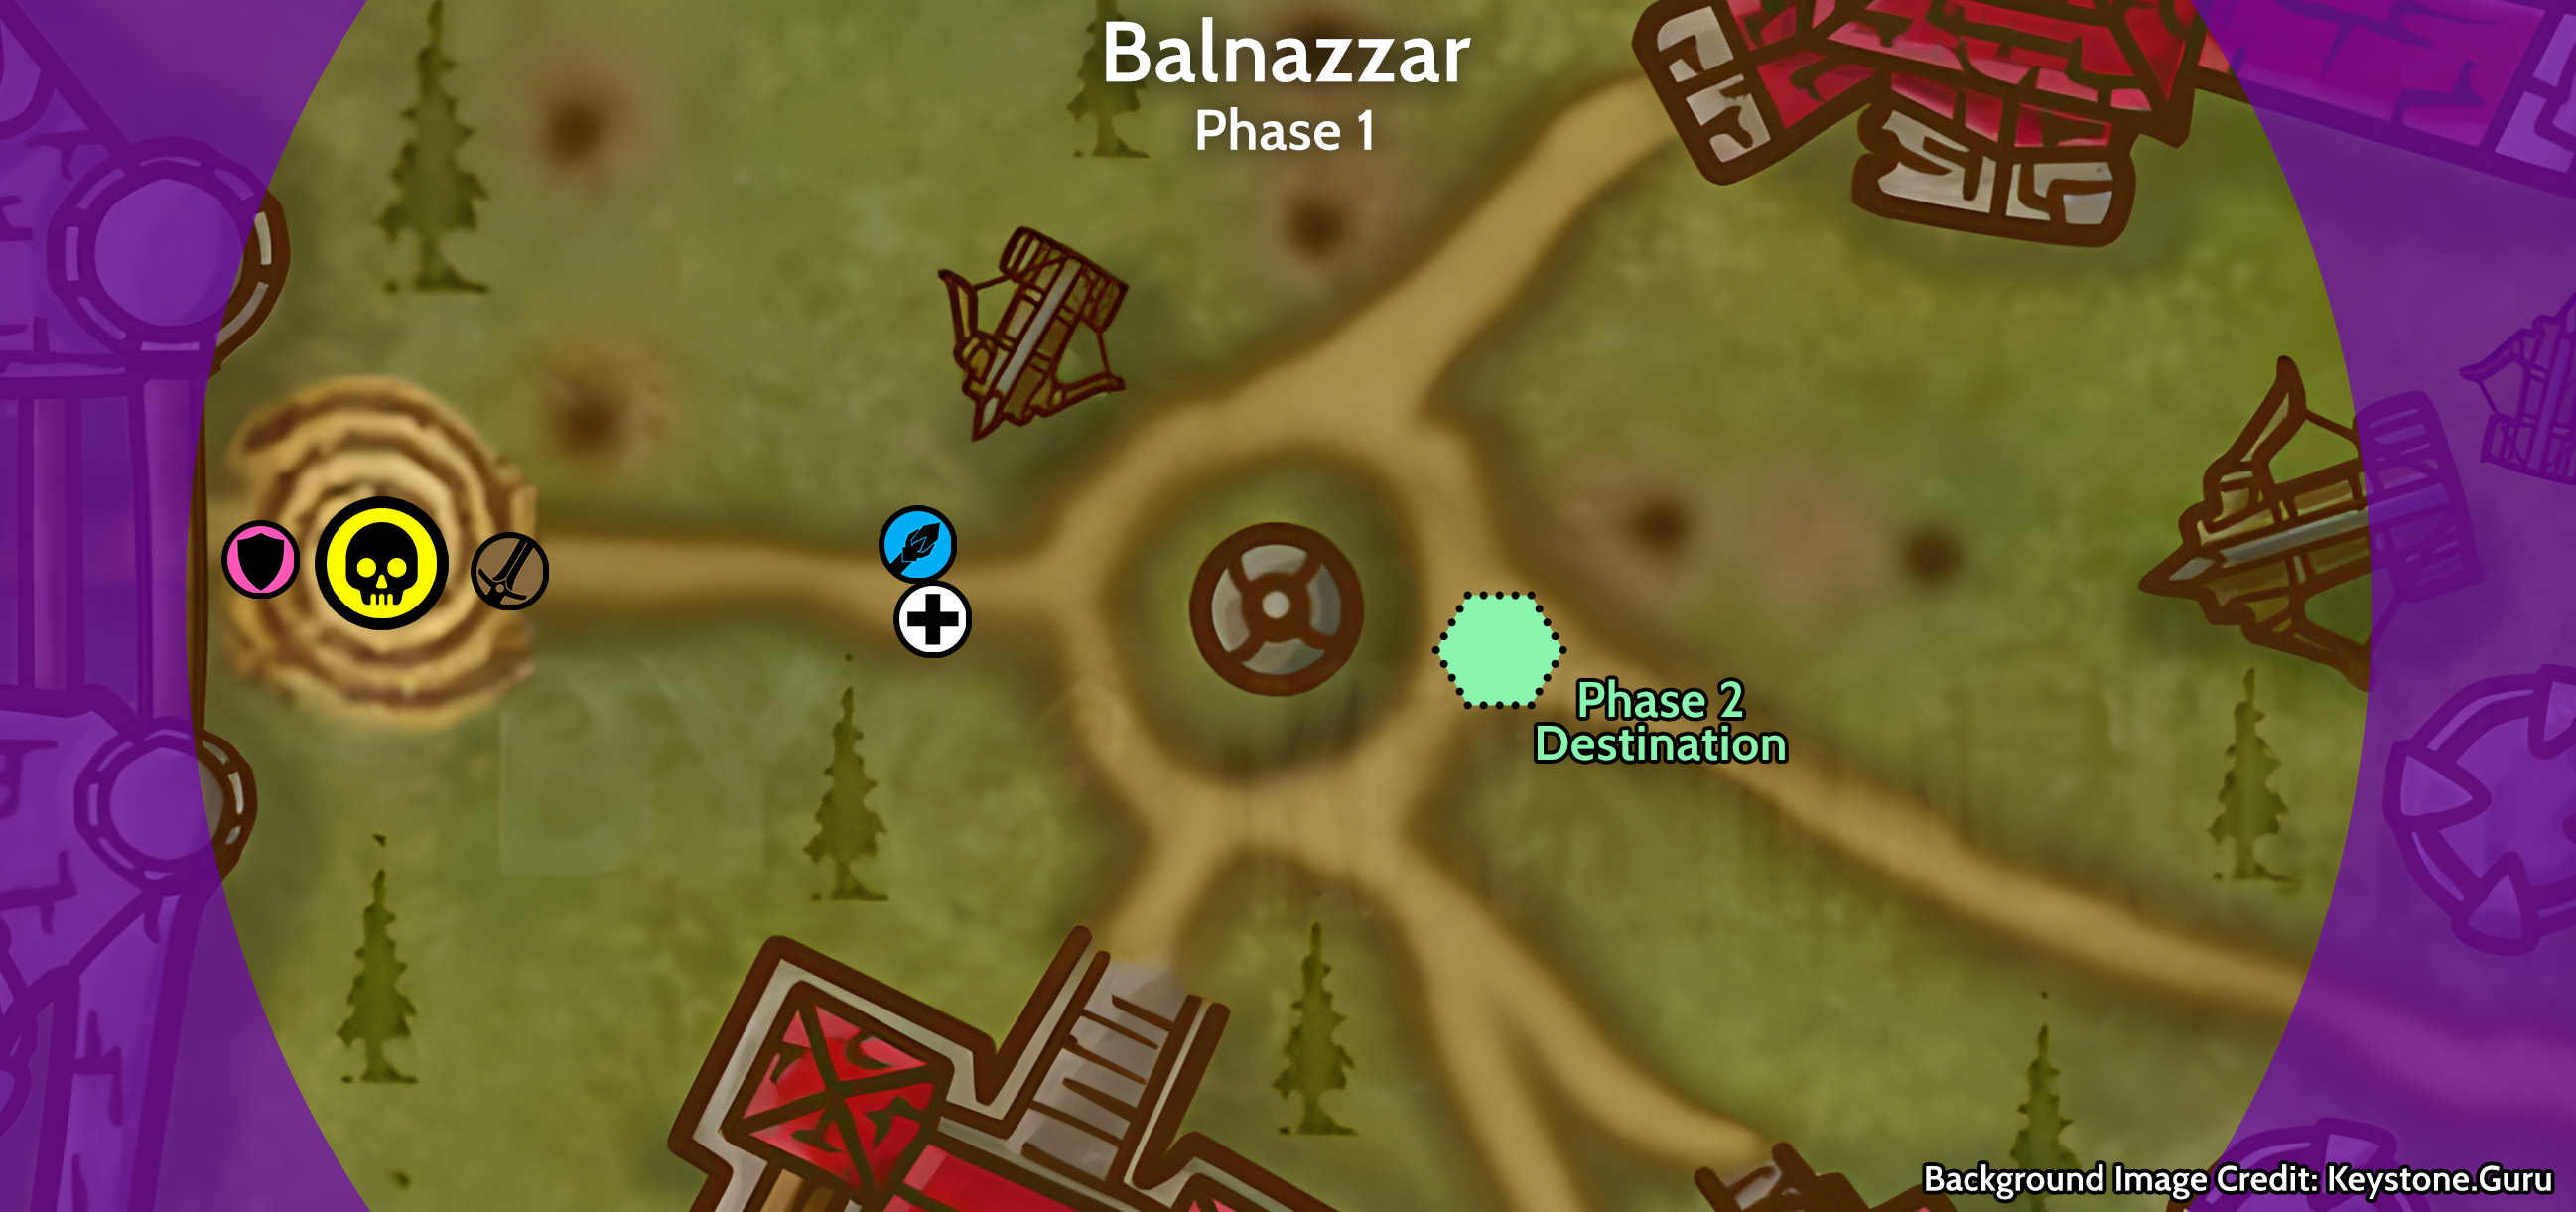
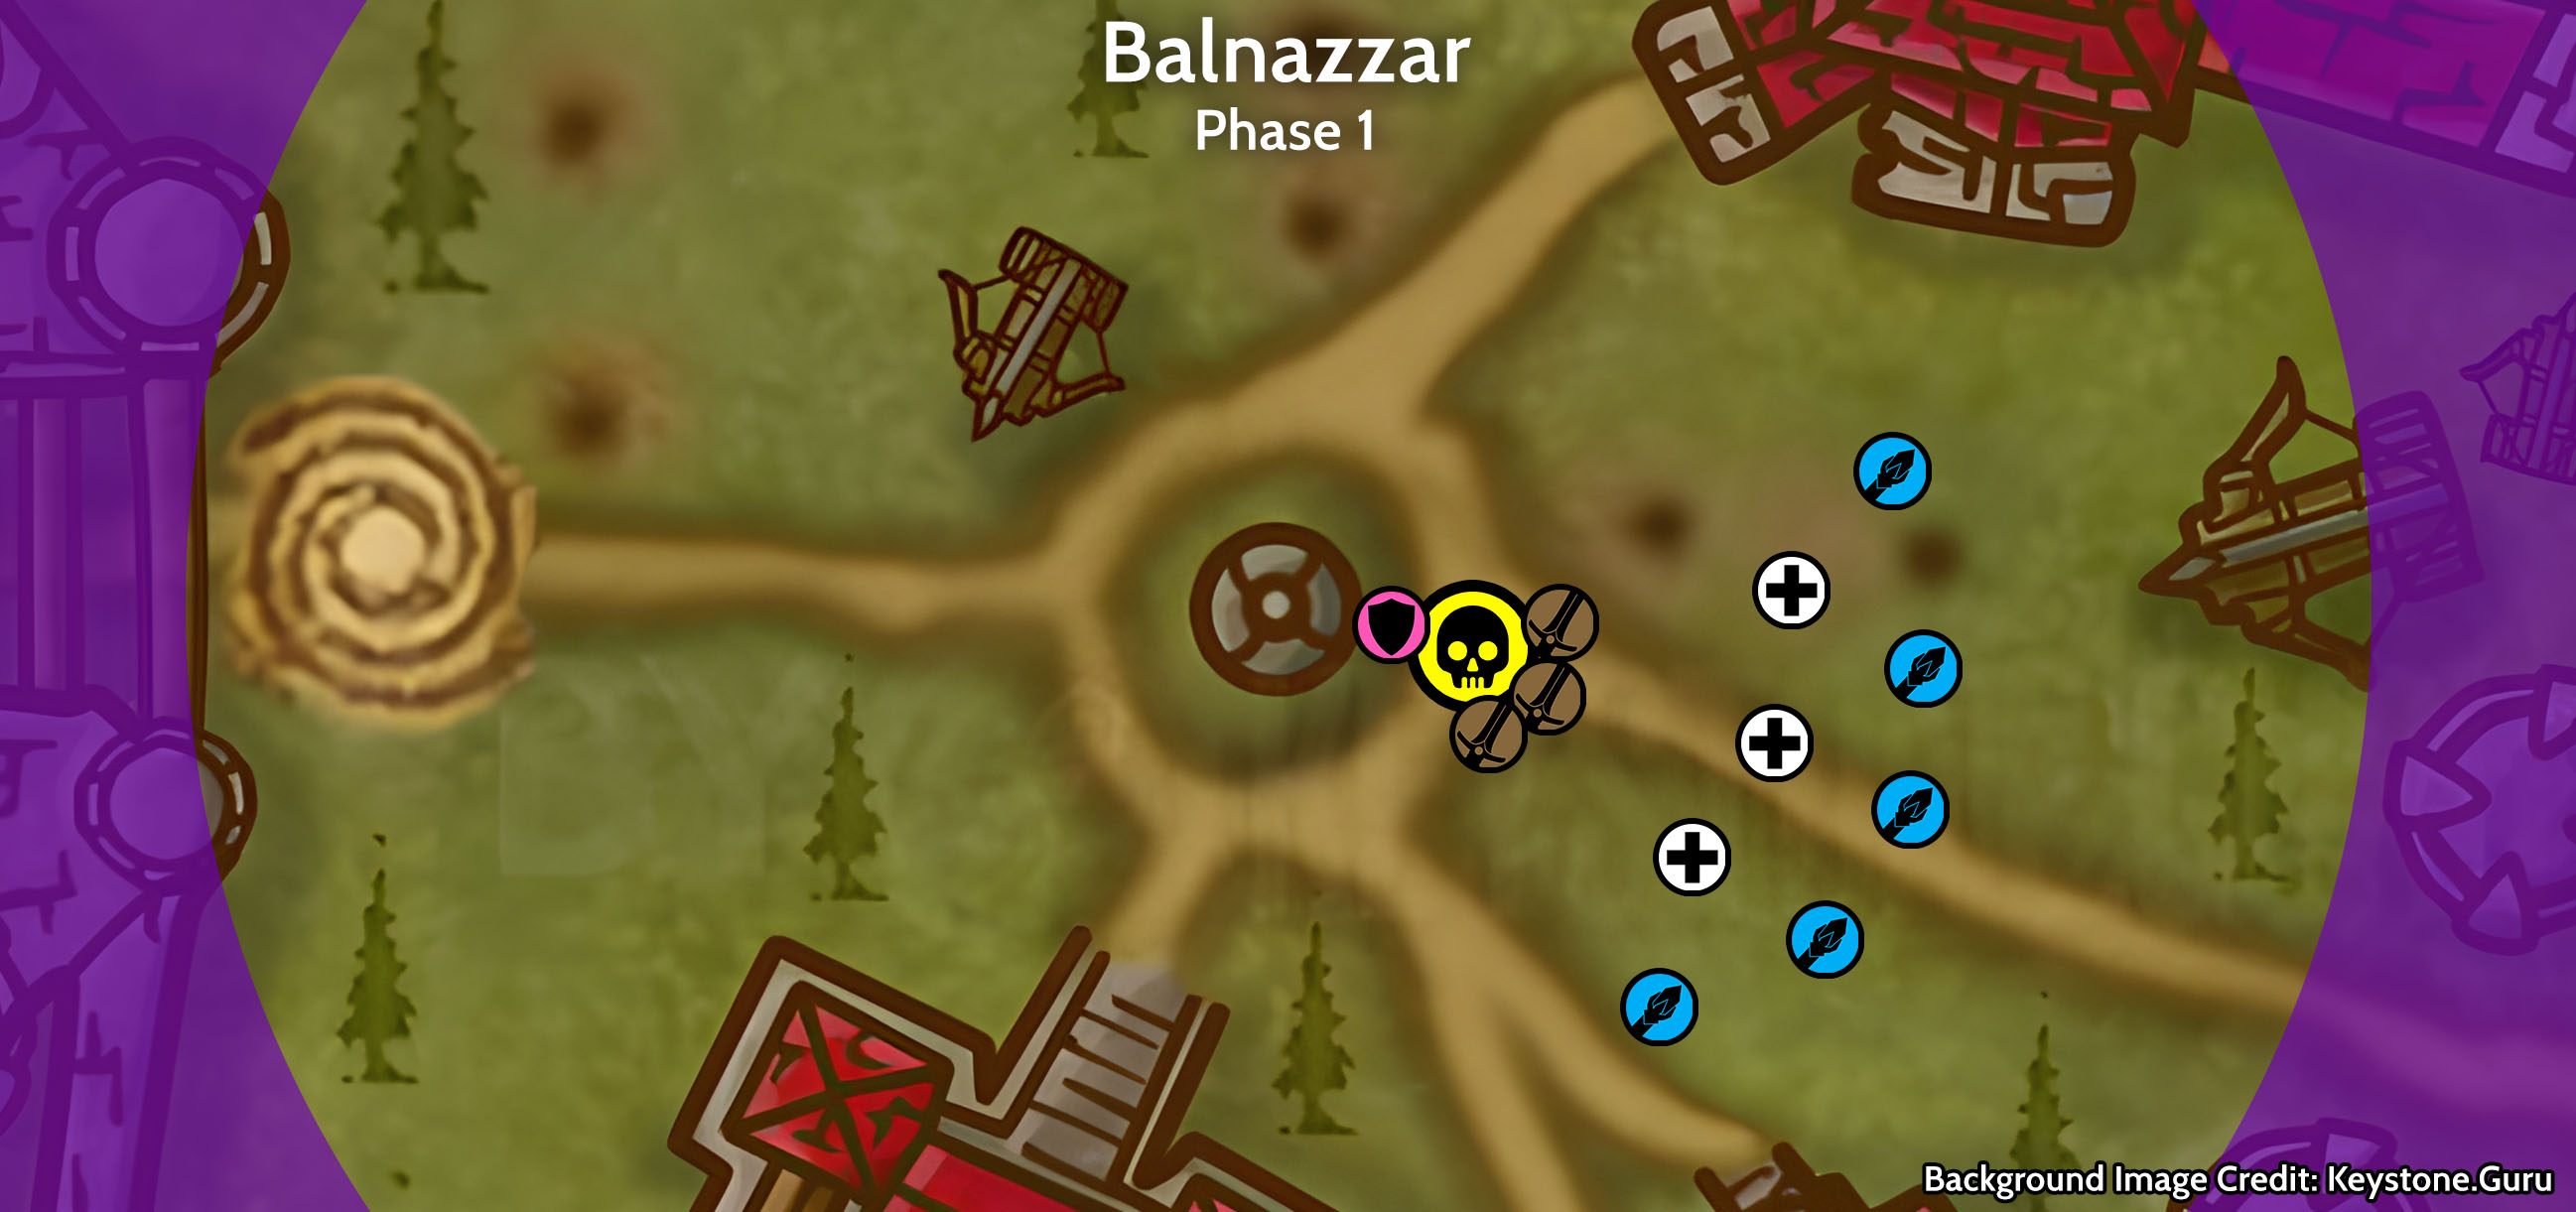
major update to B1, some restructuring of T1 and T3

diff --git a/enclave/boss1.md b/enclave/boss1.md
@@ -9,9 +9,16 @@ subtitle: Boss 1
 {% include fonts.html %}
 
 # Boss 1: [Balnazzar](https://www.wowhead.com/classic/npc=240811/balnazzar)
+*Last updated: 4/14/25*
+
+## When pulling Balnazzar, you should just fight him around the fountain where he spawns.
+<br>
 
 {: .important .fs-3}
-Before pulling Balnazzar, it's highly recommended to position yourself on the opposite side of the battlefield, at the overworld gate entrance to Tyr's Hand. Pull him from this position and drag him as far as you're able to, because when triggering Phase 2, he has to walk to a predefined location and only begins doing so at 70%. **Any additional damage you can do during this time is free and will shorten Phase 2**. Ranged should position themselves as close to the fountain as they can while still being able to hit him during Phase 1 to ensure maximum uptime as he walks to the Phase 2 destination.
+Previously, it was worth it to try and pull him far away so that you'd get free damage on him as he ran over to transition from phase 1 to 2. However, his movement speed was silently buffed during launch week and it's no longer worth doing this. You lose far more damage trying to position him in the first place than you gain by damaging him for those few seconds for free, and it also forces all of your DPS to adjust to new positions rather than allowing them to set up in those positions in the first place. Prior to that change, you'd gain 20-30 seconds of free damage; now you gain like 5, and he outruns melee so your damage is halved during those 5 too.
+
+{: .highlight .fs-4}
+Balnazzar has an 8 minute berserk timer that acts as a soft DPS check for this fight.
 
 ### Phase 1
 Begins at 100%, ends at 70%.
@@ -20,15 +27,25 @@ Begins at 100%, ends at 70%.
 
 Balnazzar has a number of mechanics which persist through every phase of the fight:
 
-[Screeching Terror](https://www.wowhead.com/classic/npc=243007/screeching-terror) adds will periodically spawn. Cleave these down, focus them if you have many.
+[Screeching Terror](https://www.wowhead.com/classic/npc=243007/screeching-terror) adds will periodically spawn. Cleave these down, focus them if you have many. They cast an AoE fear around them, which is why it's important to keep on top of these. However, <ins>the fear cast is kickable</ins>, and kicking it is more important than DPSing.
 
-Players will occasionally receive [Carrion Swarm](https://www.wowhead.com/classic/spell=1234584/carrion-swarm) debuff. This mechanic comes in two parts - spreaders, and victims. The spreader debuff lasts for 20 seconds and does not damage the source player. However, if there are players within 5 yards of a spreader, they will receive the victim debuff, which only lasts a few seconds but deals 300 damage per second to them. As long as they stay within range of a spreader, the victim debuff will continuously refresh, though if they make enough room that it no longer refreshes, it'll fall off quickly. The victim debuff also stacks - if a victim is within range of 2 spreaders, they'll take 600 damage per second.
+Balnazzar will occasionally cast [Carrion Swarm](https://www.wowhead.com/classic/spell=1234584/carrion-swarm) on players within 15-20 yards of him. Anyone infected with it will damage all other players within a few yards of them.
 
-Spreaders will not take damage from their own spreader debuff, but they can be victims to another spreader.
+{: .note-title .fs-3}
+> Carrion Swarm Mechanics
+>
+> * This mechanic comes in two parts - spreaders, and victims. The spreader debuff lasts for 20 seconds and does not damage the source player. However, if there are players within 5 yards of a spreader, they will receive the victim debuff, which only lasts a few seconds but deals 300 damage per second to them.
+> * As long as victims stay within range of a spreader, the victim debuff will continuously refresh, though if they make enough room that it no longer refreshes, it'll fall off quickly.
+> * The victim debuff stacks - if a victim is within range of 2 spreaders, they'll have 2 stacks and take 600 damage per second.
+> * Spreaders will not take damage from their own spreader debuff, but they can be victims to another spreader.
 
-Lightly spread to reduce stacks and take less damage. Alternatively, just have spreader players stand out entirely.
+[Prey on the Weak](https://www.wowhead.com/classic/spell=1231342/prey-on-the-weak) is a permanent aura affecting all players in every phase of this fight. It will cause any players who are not within ~6 yards of another player to be attacked by mirror images of Balnazzar. This looks sort of like the Hakkar HM Panther attack. This is less punishing in phases 2 and 3 due to mechanics in those phases encouraging clustering.
 
-[Prey on the Weak](https://www.wowhead.com/classic/spell=1231342/prey-on-the-weak) will cause any players who are not within ~6 yards of another player to be attacked by mirror images of Balnazzar. This behaves sort of like the Hakkar HM Panther attack. When not victim to a Carrion Swarm, players should stick to a buddy system for Phase 1. This is less punishing in phases 2 and 3 due to mechanics in those phases encouraging clustering.
+Prey on the Weak and Carrion Swarm punish you for doing the exact opposite of each other.
+
+Melee will need to lightly spread to reduce stacks and take less damage from Carrion Swarm, but don't spread so much that you take more damage from Prey on the Weak.
+
+Casters/healers should stick to a buddy system, so they don't take damage from Prey on the Weak while they also harm, at maximum, only one other player from Carrion Swarm, if they happen to get hit with it.
 
 ---
 
@@ -43,7 +60,13 @@ Starting with Phase 2 and for the rest of the fight, he emanates an aura called 
 
 Four [Scarlet Lightbearers](https://www.wowhead.com/classic/npc=243076/scarlet-lightbearer) will spawn around the fountain and channel [Light's Hope](https://www.wowhead.com/classic/spell=1232177/lights-hope), creating a holy zone near them. This effect will make nearby players immune to the silence of Suppressing Darkness, however it will also enrage the Screeching Terror adds. Additionally, if Screeching Terror adds run free, they can interrupt the channeling of Light's Hope.
 
-During Phase 2, tanks and melee should pick up adds and fight them away from the holy zones. Ranged and healers should divide amongst the holy zones. Ranged should be focusing the boss, though help on adds if they get out of control.
+During Phase 2, Ranged and healers should divide amongst the North, West, and South holy zones. Ranged should be focusing the boss, though help on adds if they get out of control.
+
+The main tank should be positioned in the Eastern holy zone (the spot Balnazzar flies up from), so they aren't silenced and can taunt. They should tank adds here, but make sure the adds are positioned outside of the zone themselves so they don't enrage. Melee should stand outside of the zone and DPS the adds during this phase. Rather than full cleave, you should be focusing down specific adds so you can minimize how many are up at once, since more adds = more fear casts.
+
+The other tank(s) should hop around between holy zones, picking up any additional adds that spawn before bringing them to the Eastern kill zone.
+
+Keep in mind that Balnazzar's Phase 1 mechanics still persist in Phase 2. Everyone is affected by Prey on the Weak. Additionally, since he's now flying around, he'll often come within 15 yards of all players, so everyone is now eligible for Carrion Swarm as well.
 
 {: .note .fs-3}
 If a caster becomes infected with Carrion Swarm, try to spread just enough to nullify it without spreading so far that you move outside of the holy zone. If you can't manage to do that, it's better for DPS to move outside of the holy zone and get silenced - temporary DPS loss is better than permanent player deaths. Healers should stay within holy zones at all costs, since without heals this fight wipes quickly. DPS leave to allow this if necessary.
@@ -56,7 +79,7 @@ Starting in Phase 2, Balnazzar will also cast [Circle of Domination](https://www
 {: .highlight .fs-3}
 The exact mechanics of how the MC works are not fully determined yet, but there's a 6 second incubation period followed by a 15 second charm if it succeeds when the incubation period elapses. Ice Block and Divine Shield can cancel the MC if it succeeds.
 
-You can comfortably sit in Phase 2 for awhile, so before pushing the boss into the next phase, **you should focus down adds to ensure you have as few as possible when starting Phase 3**.
+Before pushing the boss into the next phase, **you should focus down adds to ensure you have as few as possible when starting Phase 3**.
 
 ---
 
@@ -67,12 +90,14 @@ Begins at 40%, ends at 5%.
 
 When Balnazzar lands, the MT should pick him up immediately, just like Onyxia, as casters will probably be at the top of his threat table. He will always land at the same spot, near the easternmost holy zone he originally flew off from, so pre-position there.
 
-At this point, [Infernals](https://www.wowhead.com/classic/npc=243011/infernal) will begin spawning. They spawn on the Lightbearers over time and kill them. They have [Infernal Presence](https://www.wowhead.com/classic/spell=1232187/infernal-presence) which will lightly damage nearby players but make those players immune to Suppressing Darkness. The Infernals are not guaranteed to kill the Lightbearers; you can pick them up and drag them away.
+At this point, [Infernals](https://www.wowhead.com/classic/npc=243011/infernal) will begin spawning. They spawn on the Lightbearers over time and kill them. They have [Infernal Presence](https://www.wowhead.com/classic/spell=1232187/infernal-presence) which will lightly damage nearby players but make those players immune to Suppressing Darkness.
 
 Hold Infernals near the boss and have melee stack on them as needed. Casters/healers should stay in the holy zones that are still up until the NPCs die. Then those players need to move to any that are still alive, or infernals if necessary.
 
 In this phase, most of your damage should be on the boss, but you still need to keep up with Screeching Terror spawns until the boss is around 15% - at that point, focus him and burn the remainder.
 
-If all 4 Lightbearers die, the boss will enrage. Avoid this at all costs.
+At 30%, 25%, and 20% health, Balnazzar will forcefully reduce you to 3, 2, and 1 living Lightbearer, respectively. Casters will need to move to another, or enter range of an Infernal to keep casting.
+
+Balnazzar will not kill the last Lightbearer himself, but they can still die to an add. If all 4 die, Balnazzar will enrage. Avoid this at all costs.
 
 Balnazzar dies at 5% with a long roleplay. Anyone dead will not see all of the RP.

diff --git a/enclave/trash1.md b/enclave/trash1.md
@@ -4,20 +4,20 @@ title: Trash (before Boss 1)
 parent: Scarlet Enclave
 nav_order: 1
 ---
+*Last updated: 4/14/25*
 
-At the very start of the raid you'll see a flight master. This is similar to Molten Core's teleportation system, it will allow you to quick travel between future checkpoints as you unlock them.
+At the very start of the raid you'll see a flight master. This is similar to Molten Core's teleportation system; it will allow you to quick travel between future checkpoints as you unlock them.
 
 For now, jump down the hill to begin. If you land on the hay pile, you won't take fall damage.
+
+![Trash (before Boss 1)]({{site.url}}/enclave/trash1.jpg)
 
 The first boss is inside the Cathedral, but the door is locked.
 
 * **Scarlet Praetorians** use Whirlwind - avoid. The range of Whirlwind is shown with a blue outline around them, roughly 15 yards. Cannot be kicked, simply run out.
-
 * **Scarlet Paladins** throw down a red Consecrate. Massive AoE damage over time, avoid just like whirlwind. This uses the Retail visual so it's easier to distinguish from friendly Consecrates.
-
-* **Scarlet Cleric**: These are priests that will heal allies and attack offensively using Smite and Mind Blast. Uniquely, though, they have a spell called Holy Radiance that will do immense damage in an AoE around them. It has a 2 second cast time. Interrupt this or risk wipes.
-
-* **Scarlet Knight**: These are paladins that use paladin auras. Ret aura does lots of thorn damage. Devo aura grants +2490 spell resist.
+* **Scarlet Cleric** are priests that will heal allies and attack offensively using Smite and Mind Blast. Uniquely, though, they have a spell called Holy Radiance that will do immense damage in an AoE around them. It has a 2 second cast time. <ins>Interrupt this or risk wipes</ins>.
+* **Scarlet Knight** are paladins that use their auras. Ret aura does loads of thorns damage. Devo aura grants +2490 spell resist.
 
 There are minibosses (Captains) littered about. You do not have to kill all of the Captains to summon the first boss, but if you decide to, the Captains are Paladins - they change Pally auras just like the Scarlet Knights.
 
@@ -26,8 +26,12 @@ To progress the raid, you must do the following:
 1. Ring the bell at the top of the Tyr's Hand Abbey.
 2. Enter the Scarlet Cathedral.
 
-A miniboss named Captain Karnwield spawns in front of the Scarlet Cathedral when the Abbey bell is rung.
+A miniboss named Captain Karnwield spawns in front of the Scarlet Cathedral when the Abbey bell is rung. He has no real mechanics, just a lot of health.
 
-After Karnwield dies, enter the Cathedral and confront Boss 1. They run out of the Cathedral and go to the Fountain in central Tyr's Hand. The first boss fight occurs there. **When they spawn, they'll kill any remaining trash.**
+After Karnwield dies, enter the Cathedral and confront Boss 1. They run out of the Cathedral and go to the Fountain in central Tyr's Hand. The first boss fight occurs there. **When Boss 1 spawns, they'll kill any remaining trash.**
 
-![Trash (before Boss 1)]({{site.url}}/enclave/trash1.jpg)
+{: .important .fs-3}
+When Boss 1 spawns, it sends out a projectile attack that *should* kill all trash in the region, however the projectile can sometimes be resisted, so be sure to look around and see if any trash managed to survive it. If something survived close enough to the battlefield where you'll be fighting Boss 1, you may wish to take it out before the encounter begins, or else you risk range pulling it mid-fight.
+
+{: .highlight .fs-3}
+Since all you have to do to open the Cathedral is ring the bell, you can have a Rogue stealth up to the top of the Abbey and ring it for you. There's a single mob up there, but they can vanish from it after ringing the bell. This lets you skip roughly 99% of the trash, since all you then have to kill are Karnwield and the packs leading to him. This is not advised for first runs, but may be desired for future weeks, since it can be performed as soon as you have an instance ID, even while the rest of your raid is still assembling.

diff --git a/enclave/trash3.md b/enclave/trash3.md
@@ -4,6 +4,7 @@ title: Trash (before Boss 3/4/5)
 parent: Scarlet Enclave
 nav_order: 5
 ---
+*Last updated: 4/14/25*
 
 After killing Beatrix, the next area opens up north of New Avalon. The next 3 bosses may all be fought in any order you wish, but all 3 must be killed in order to progress to the next zone of the raid.
 
@@ -14,6 +15,13 @@ Boss numbering is based on Warcraftlogs - it may not make sense to pull them in 
 {: .highlight .fs-3}
 Be aware that Boss 5 patrols up and down the road.
 
-There's a lot of new types of enemies in the next trash packs:
+There's a lot of trash in this region. To recap the old ones:
+
+* **Scarlet Praetorians**: These use Whirlwind, avoid it.
+* **Scarlet Paladins**: These use Consecrate, avoid it.
+* **Scarlet Cleric**: These use Holy Radiance, which must be interrupted or it can wipe the raid.
+* **Scarlet Knight**: These use Paladin auras. Melee watch their health when Retribution Aura is active.
+
+However, there are also some new ones:
 
 * **Lightforged Whelp**: When these die, they explode in a Holy Nova. Ideally drag them out of the raid before they die, and do not kill multiple together or you'll kill some players. *Basically, ZG Bat Riders.*

diff --git a/enclave/boss2.md b/enclave/boss2.md
@@ -9,6 +9,7 @@ subtitle: Boss 2
 This guide is still a work in progress.
 
 # Boss 2: [Beatrix](https://www.wowhead.com/classic/npc=240812/high-commander-beatrix)
+*Last updated: 4/14/25*
 
 {: .note .fs-3}
 When pulling this boss, everyone must run towards her. Scarlet soldiers will quickly form a square perimeter and any players outside of this perimeter will instantly die.

diff --git a/enclave/trash2.md b/enclave/trash2.md
@@ -4,6 +4,7 @@ title: Trash (before Boss 2)
 parent: Scarlet Enclave
 nav_order: 3
 ---
+*Last updated: 4/14/25*
 
 You'll begin in the basement prison of the Barracks in southern New Avalon. An Argent Dawn member will pick the lock so you can escape. Talk to the Night Elf named Fydriel near the Barracks exit - he will tell you which of the next minibosses are empowered.
 